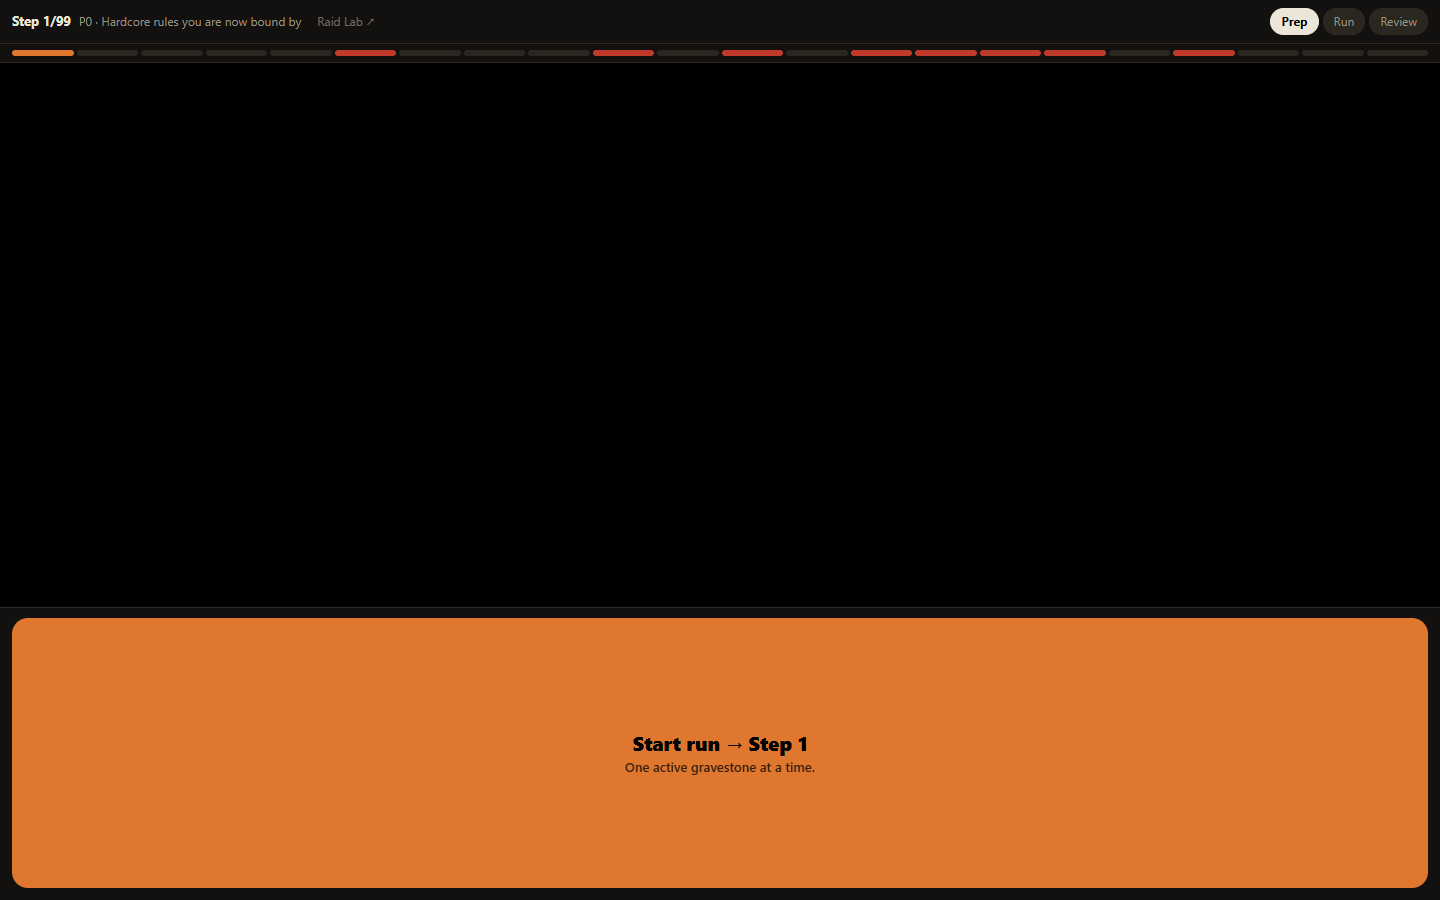
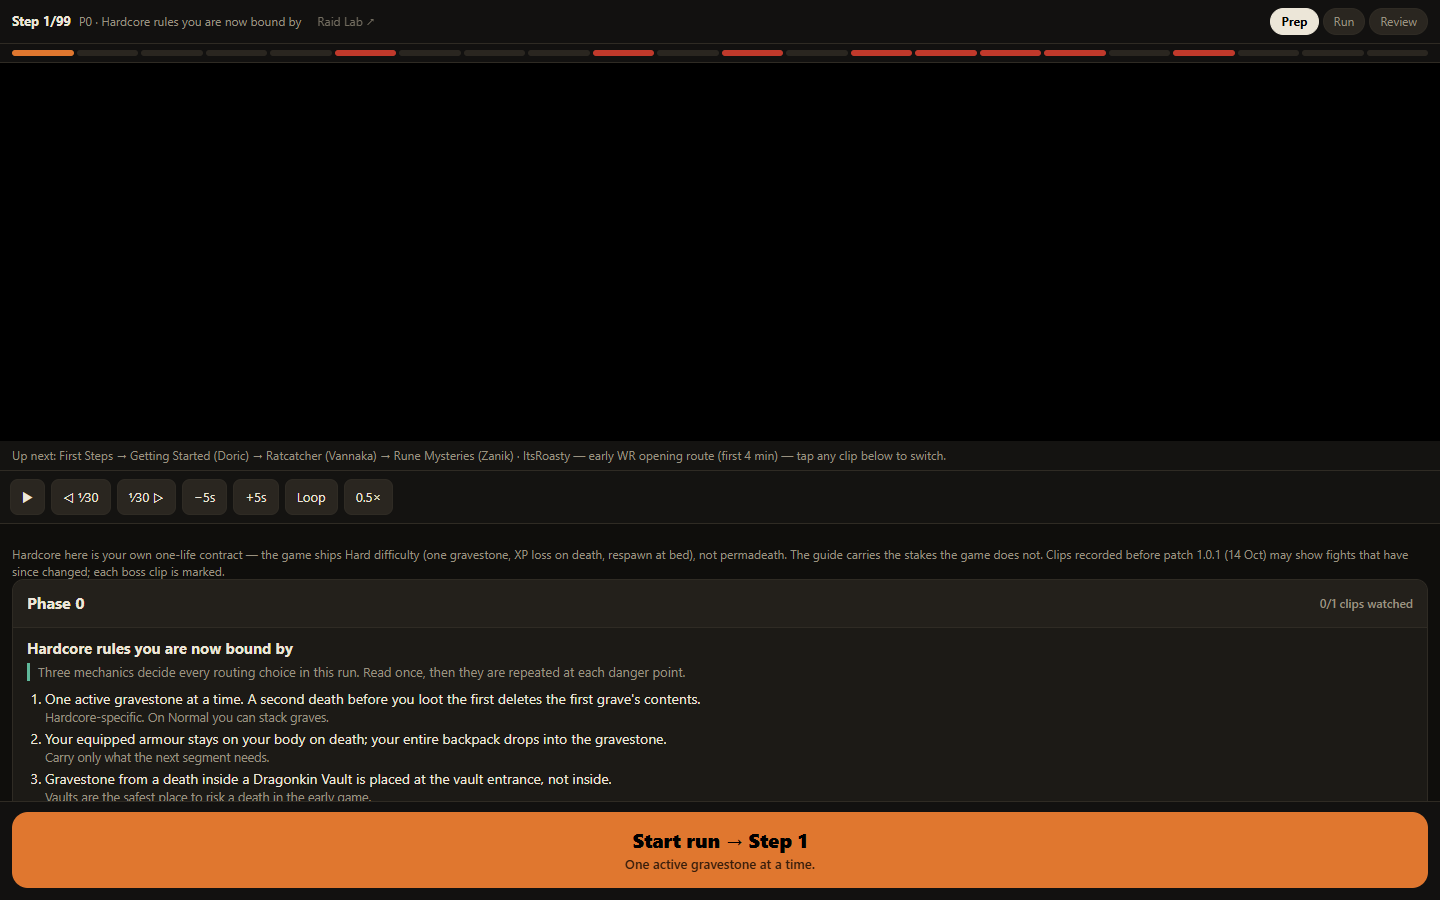
Run mode prep: cue next route clip, cap player height, compact start button

Changed region(s): [[0.0, 0.4978, 1.0, 0.9022], [0.4375, 0.9333, 0.5625, 0.9644]]

diff --git a/hardcore-run.html b/hardcore-run.html
@@ -68,7 +68,7 @@ html,body{margin:0;background:var(--bg);color:var(--ink);font-family:-apple-syst
 .prep .chk{background:var(--dangerbg);border:1px solid #7a2a22;border-radius:8px;padding:8px 10px;font-size:13px;margin-top:6px}
 .prep .chk b{display:block;color:#ffb3a8;font-size:12px;margin-bottom:4px}
 .prepplayer{position:sticky;top:0;z-index:5;background:#000;border-bottom:1px solid var(--line)}
-.prepplayer .frame{position:relative;padding-top:56.25%}.prepplayer .frame>div,.prepplayer .frame iframe{position:absolute;inset:0;width:100%;height:100%;border:0}
+.prepplayer .frame{position:relative;padding-top:min(56.25%,42vh);max-width:calc(42vh*16/9);margin:0 auto}.prepplayer .frame>div,.prepplayer .frame iframe{position:absolute;inset:0;width:100%;height:100%;border:0}
 .prepplayer .np{padding:6px 12px;font-size:12px;color:var(--muted);background:#141311}
 /* PREFLIGHT */
 .pre{padding:16px;display:flex;flex-direction:column;min-height:100%}
@@ -104,6 +104,7 @@ html,body{margin:0;background:var(--bg);color:var(--ink);font-family:-apple-syst
 .btnrow{display:flex;gap:8px;margin-top:10px}.btnrow button{flex:1;background:var(--chip);border:1px solid var(--line);color:var(--ink);border-radius:10px;padding:12px;font:inherit;font-weight:700}
 .btnrow button.p{background:var(--accent);color:#000;border-color:var(--accent)}
 .note{font-size:12px;color:var(--muted);margin-top:10px}
+#bottom:has(.done.compact){height:auto!important;min-height:0!important;flex:none!important}.done.compact{height:auto!important;min-height:76px!important;padding:14px!important}
 </style>
 <script async src="https://www.youtube.com/iframe_api"></script>
 </head><body>
@@ -233,7 +234,9 @@ function renderPrep(body,bottom){const pp=document.createElement('div');pp.class
     cl.appendChild(a);});sg.appendChild(cl);}
    ph.appendChild(sg);});list.appendChild(ph);});
  body.appendChild(list);
- const b=document.createElement('button');b.className='done';b.innerHTML='<span>Start run → Step '+(S.cur+1)+'</span><small>'+STEPS[S.cur].hero+'</small>';b.onclick=()=>{ac();wake();setMode('run');};bottom.appendChild(b);}
+ // Cue the next clip on the route (paused) so the player is never an empty black box.
+ {const nx=STEPS.slice(S.cur).find(x=>x.s.clips.length)||STEPS.find(x=>x.s.clips.length);if(nx){const c=nx.s.clips[0];const tryMount=()=>{if(!YTREADY)return setTimeout(tryMount,300);mountPlayer(document.getElementById('prepframe'),c,{rate:1,autoplay:false});document.getElementById('prepnp').textContent='Up next: '+nx.s.t+' · '+c.label+' — tap any clip below to switch.';};tryMount();}}
+ const b=document.createElement('button');b.className='done compact';b.innerHTML='<span>Start run → Step '+(S.cur+1)+'</span><small>'+STEPS[S.cur].hero+'</small>';b.onclick=()=>{ac();wake();setMode('run');};bottom.appendChild(b);}
 // REVIEW
 function renderReview(body,bottom){const st=STEPS[S.cur];const w=document.createElement('div');w.className='rv';
  w.innerHTML='<h2>Review</h2><div style="font-size:13px;color:#9a9280">Resume marker is at step '+(S.cur+1)+'. Tap "resume here" on any step to move it. Clip for the current segment is open below for comparison.</div>'+(st.s.clips.length?'<div class="clipslot open" style="margin-top:10px"><div class="frame" id="rvframe"></div><div class="pc"><button id="pp">▶</button><button id="pm5">−5s</button><button id="pp5">+5s</button><button id="prate">0.5×</button><span class="t" id="ptime"></span></div></div>':'')+
